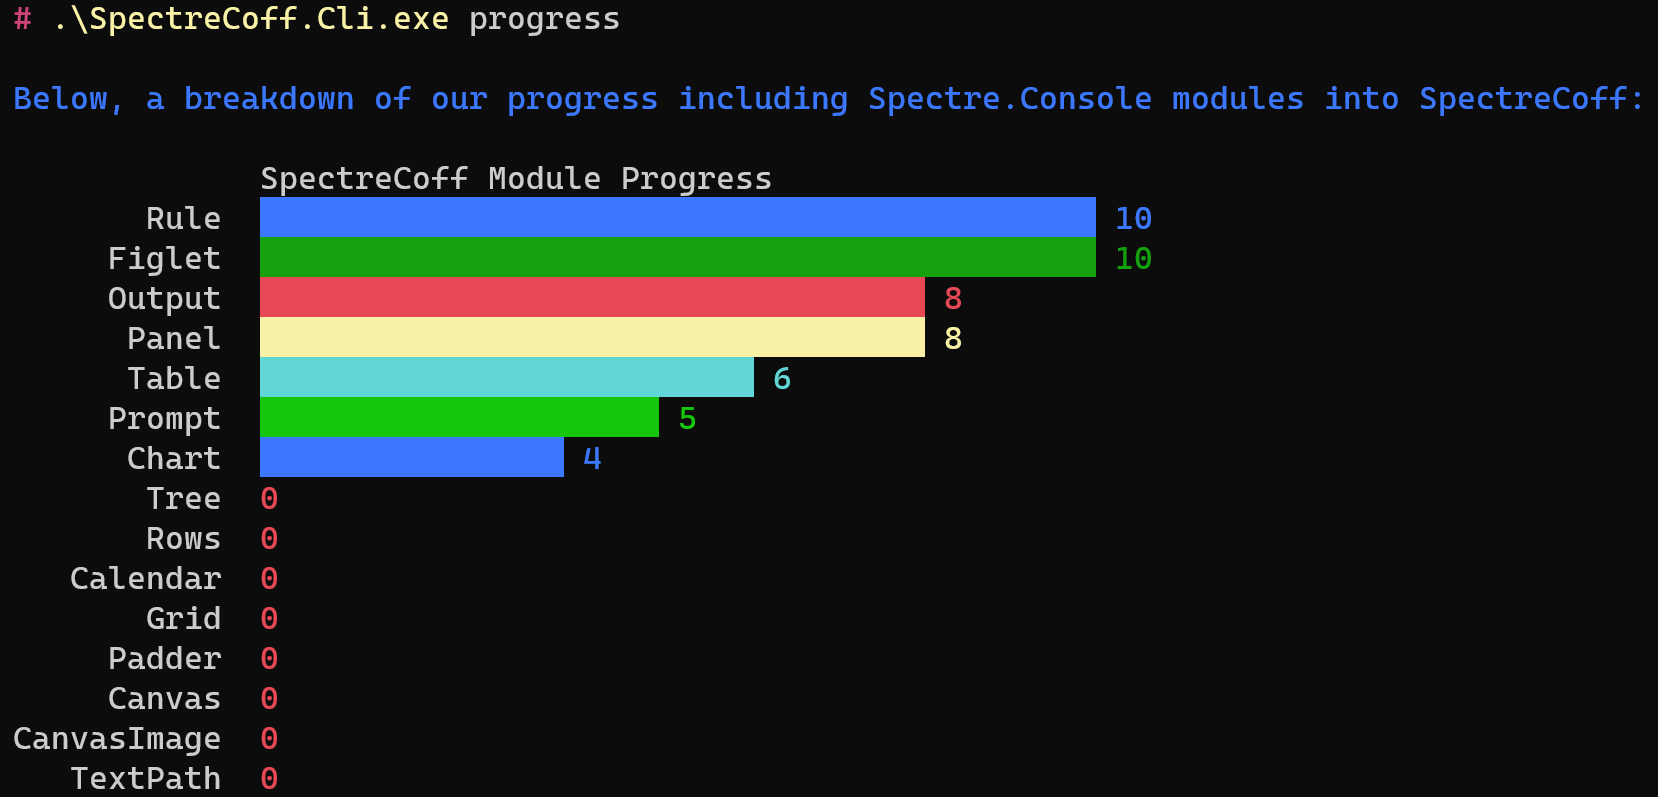
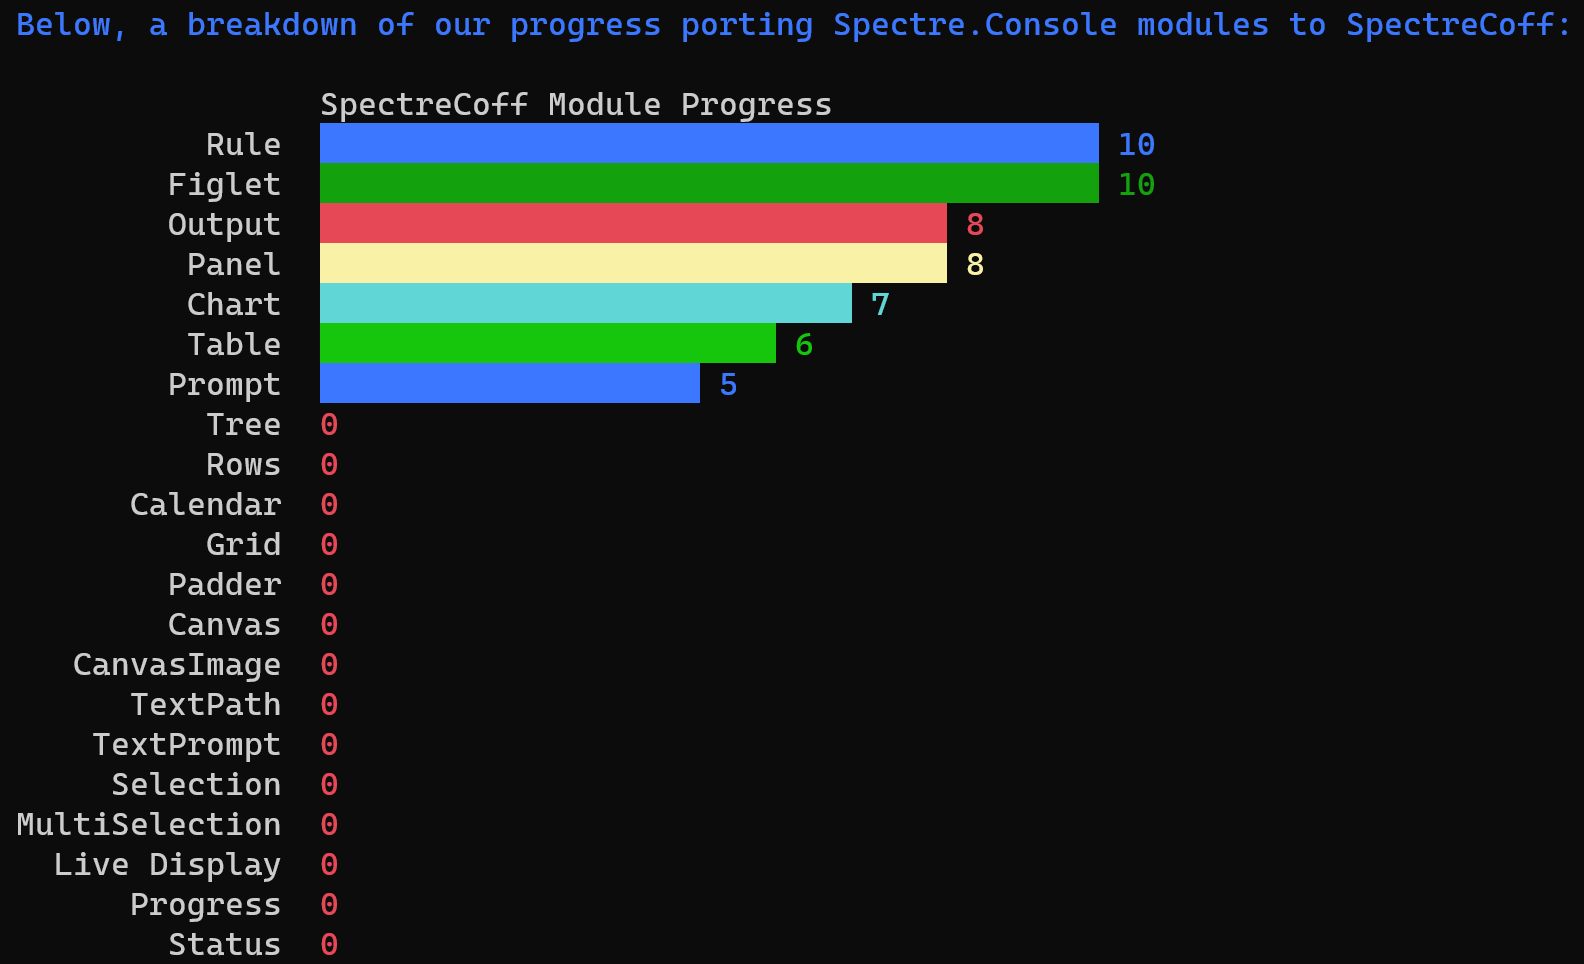
Add breakdown chart

Changed region(s): [[0.0, 0.0903, 0.9899, 0.9937], [0.0, 0.0, 0.9899, 0.0602]]

diff --git a/README.md b/README.md
@@ -150,7 +150,7 @@ The figlet module is already usable, just not documented yet. In the meantime, p
 The table module is currently in the works!
 
 #### Chart
-The chart module is partially completed. In particular, the bar chart is already usable, but undocumented, while the breakdown chart has not been ported yet. Please see the example command for guidance on the bar chart.
+The chart module is already usable, just not documented yet. In the meantime, please see the example command for guidance.
 
 ### Versioning
 We are using [NerdBank.GitVersioning](https://github.com/dotnet/Nerdbank.GitVersioning) and follow the version scheme: `<major>.<minor>.<git-depth>` for out releases. 
